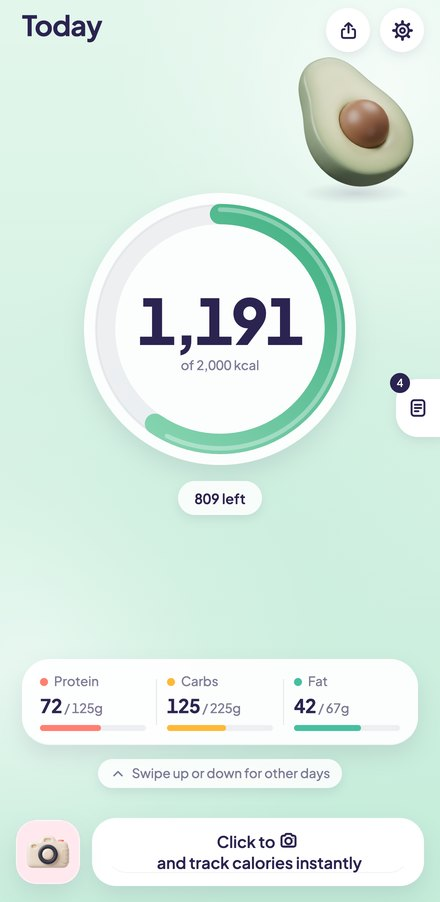
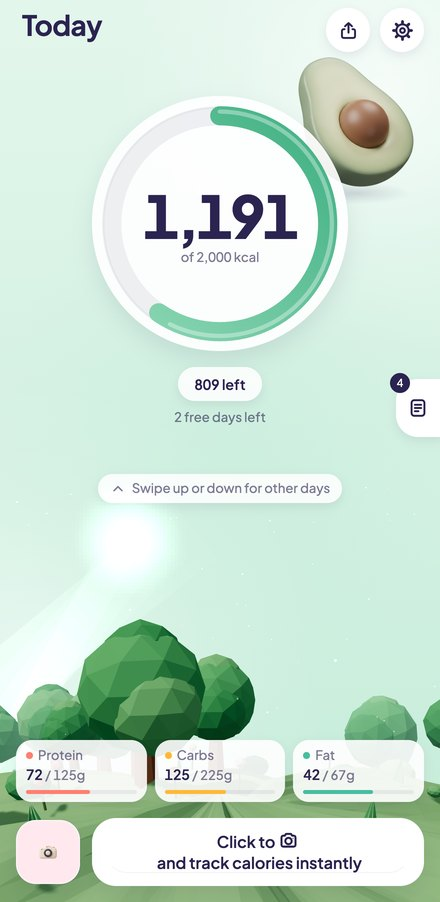
Product site: the forest in the shots and the copy

diff --git a/marketing/site/index.html b/marketing/site/index.html
@@ -62,7 +62,7 @@
   <section class="points">
     <div class="point"><b data-i18n="p1t">One button</b><span data-i18n="p1">Tap it and forget it. A live mini camera sits next to it, so the photo is instant.</span></div>
     <div class="point"><b data-i18n="p2t">Lock Screen snaps</b><span data-i18n="p2">Add the Snap widget or the iOS 18 control and track without even opening the app.</span></div>
-    <div class="point"><b data-i18n="p3t">A colour for every day</b><span data-i18n="p3">A soft colour and one object by day, a calm sheet by night. Swipe up and down through your week.</span></div>
+    <div class="point"><b data-i18n="p3t">A colour for every day</b><span data-i18n="p3">A small 3D forest that grows as you eat, a new biome every day, a calm moonlit one by night. Swipe up and down through your week.</span></div>
     <div class="point"><b data-i18n="p4t">No account</b><span data-i18n="p4">Your diary stays on your phone. Photos are only used to count your food.</span></div>
   </section>
 
@@ -83,7 +83,7 @@
       email: 'メールアドレス', join: 'リリース時に知らせて', ok: '🍕 登録しました。リリース時に一度だけメールします。',
       p1t: 'ボタンひとつ', p1: 'タップしたら忘れてOK。横の小さなカメラで、すぐに撮影できます。',
       p2t: 'ロック画面から撮影', p2: '「撮影」ウィジェットやiOS 18のコントロールで、アプリを開かずに記録。',
-      p3t: '毎日ちがう色', p3: '昼はやさしい色とひとつのオブジェ、夜は落ち着いた画面。上下スワイプで1週間をめぐれます。',
+      p3t: '毎日ちがう色', p3: '食べるほど育つ小さな3Dの森。曜日ごとに景色が変わり、夜は月明かりに。上下スワイプで日をめぐれます。',
       p4t: 'アカウント不要', p4: '記録は端末の中だけ。写真は計算のためだけに使われます。',
       privacy: 'プライバシー', support: 'サポート'
     }
